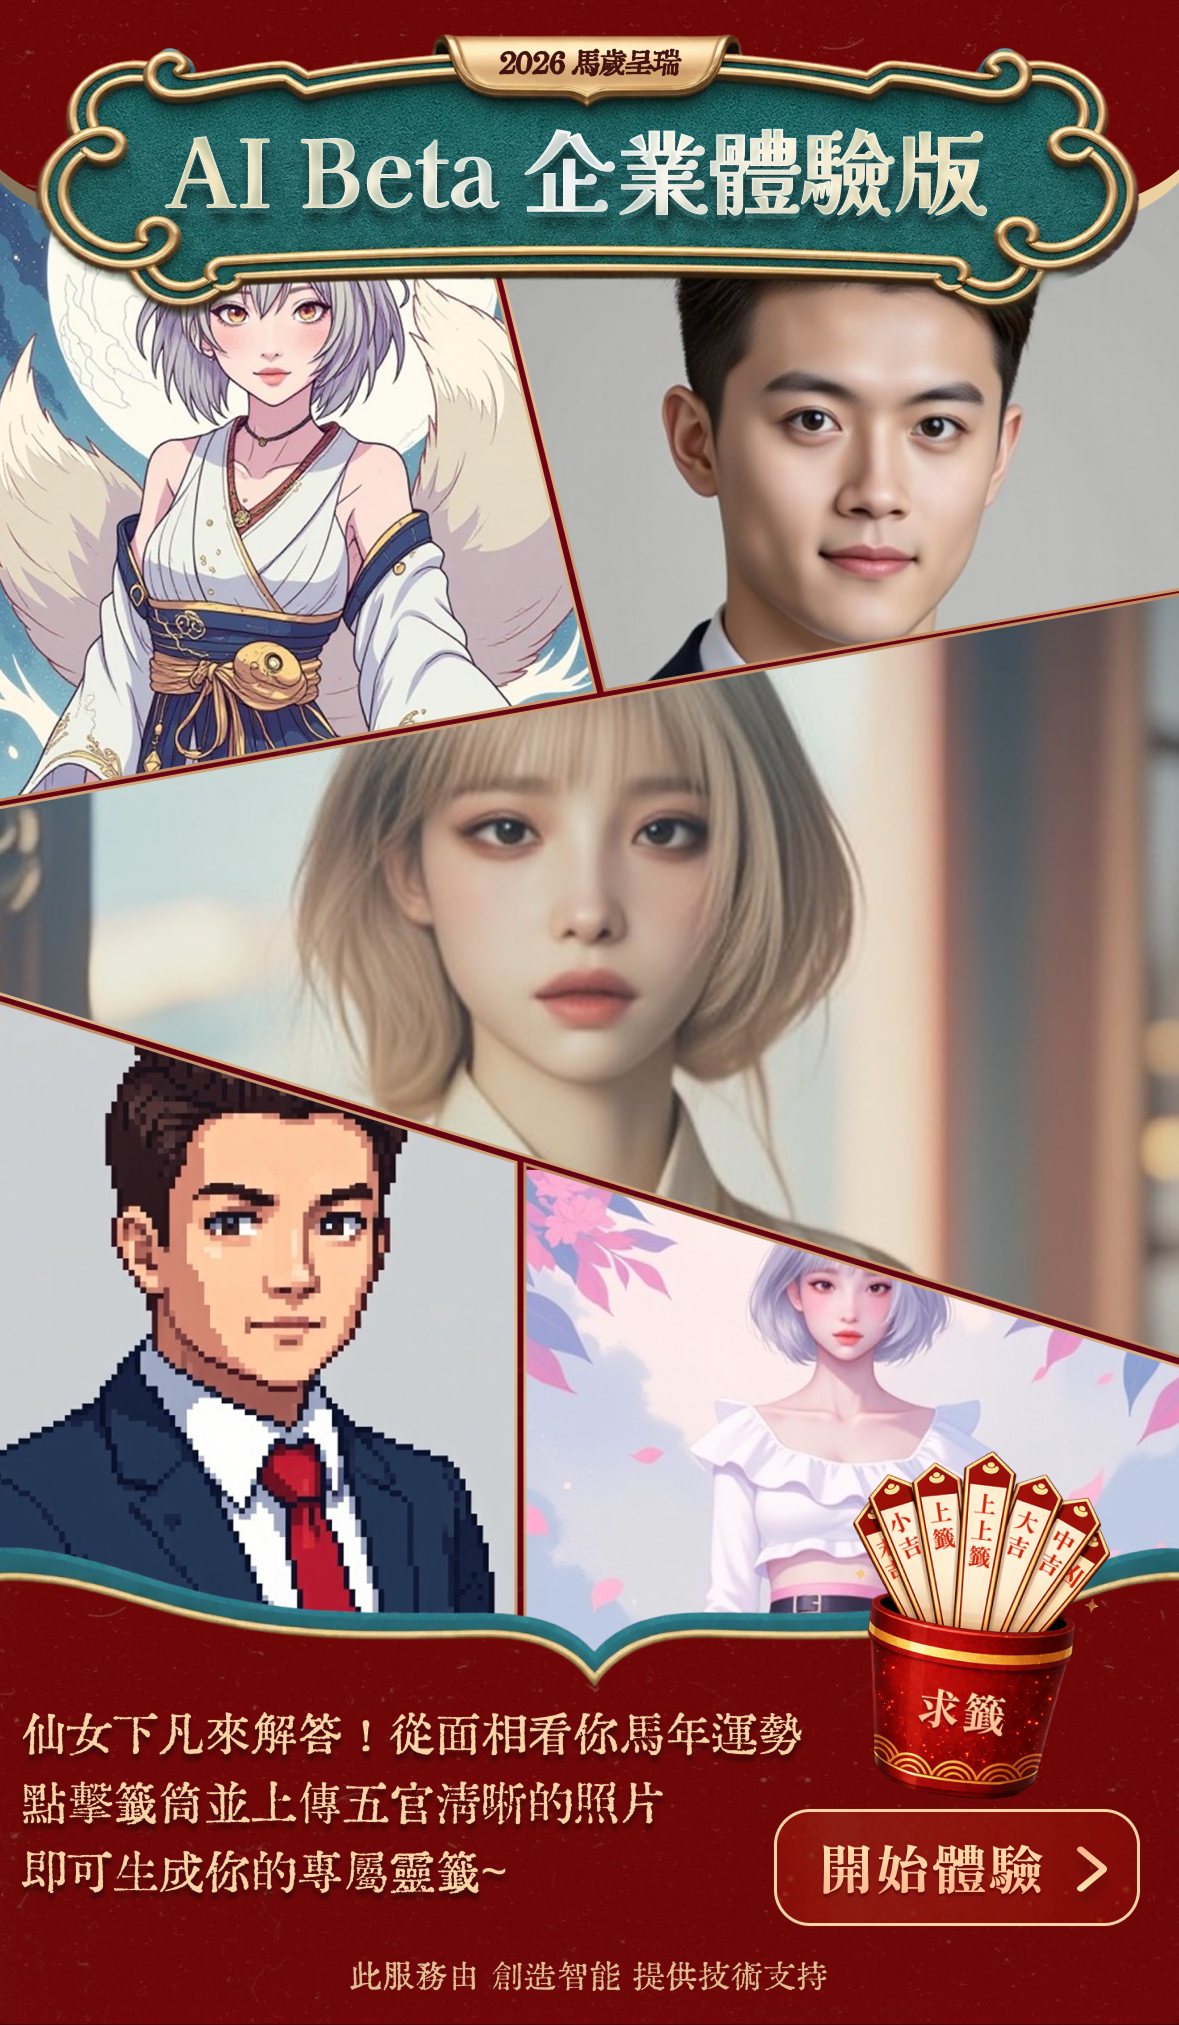
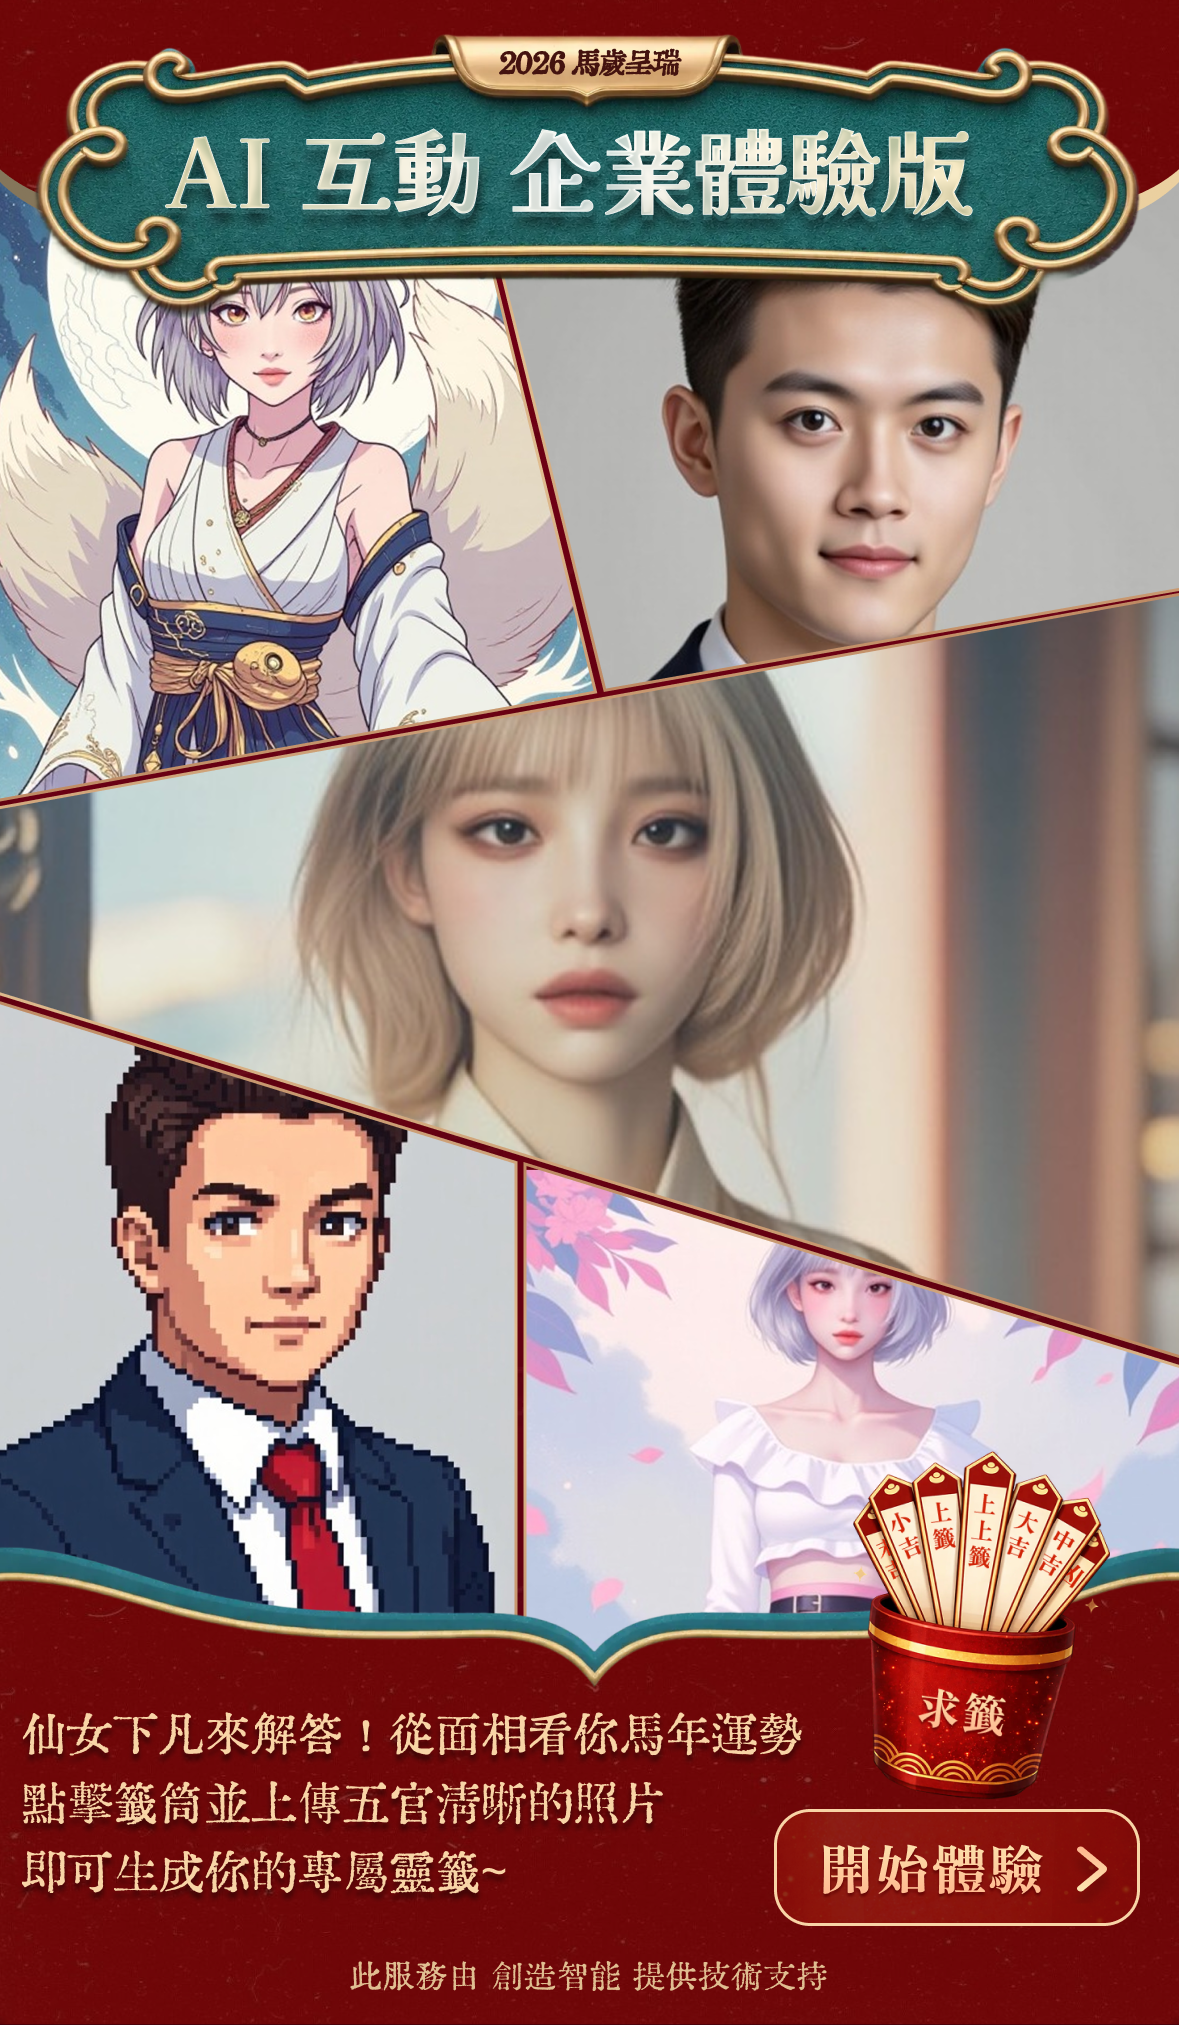
換圖

Changed region(s): [[0.2443, 0.0622, 0.855, 0.1244]]

diff --git a/resources/js/faceswap/components/EmailForm.vue b/resources/js/faceswap/components/EmailForm.vue
@@ -9,8 +9,8 @@
       backgroundRepeat: 'no-repeat'
     }"
   >
-    <!-- 主標題區域 -->
-    <div class="px-4 pb-4">
+    <!-- 主標題區域（左右不留白，讓標題圖碰到畫面邊緣） -->
+    <div class="pb-4">
       <!-- Header -->
       <div class="flex gap-5 justify-center items-center self-stretch py-6 w-full font-bold whitespace-nowrap min-h-20">
         <div
